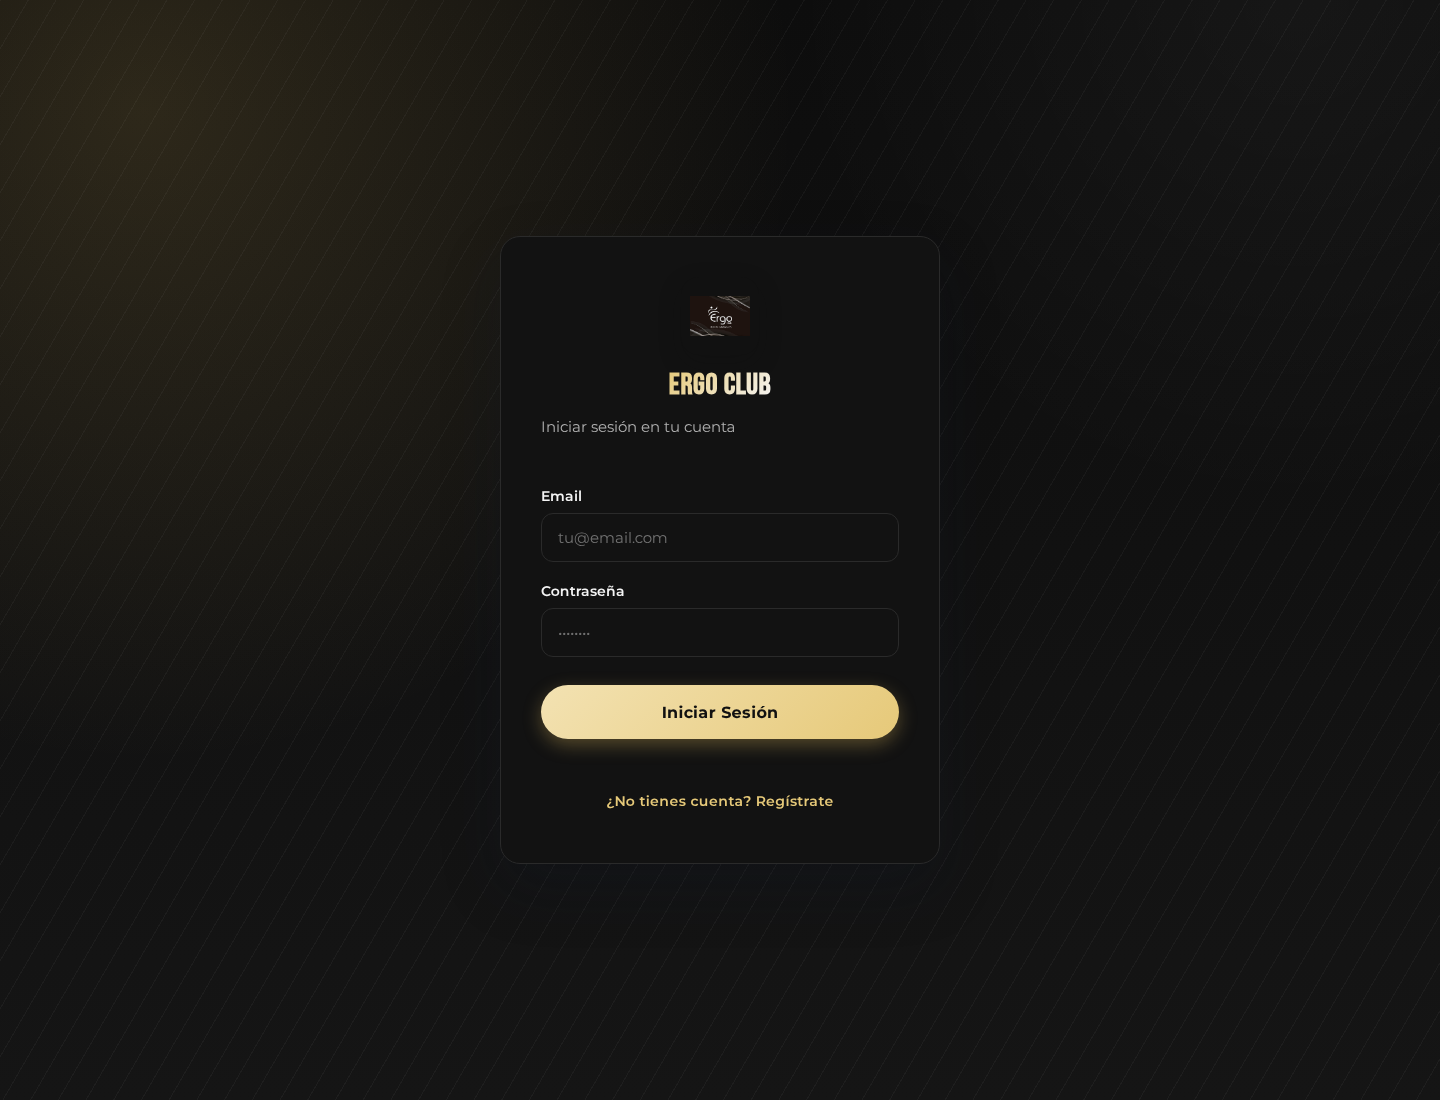
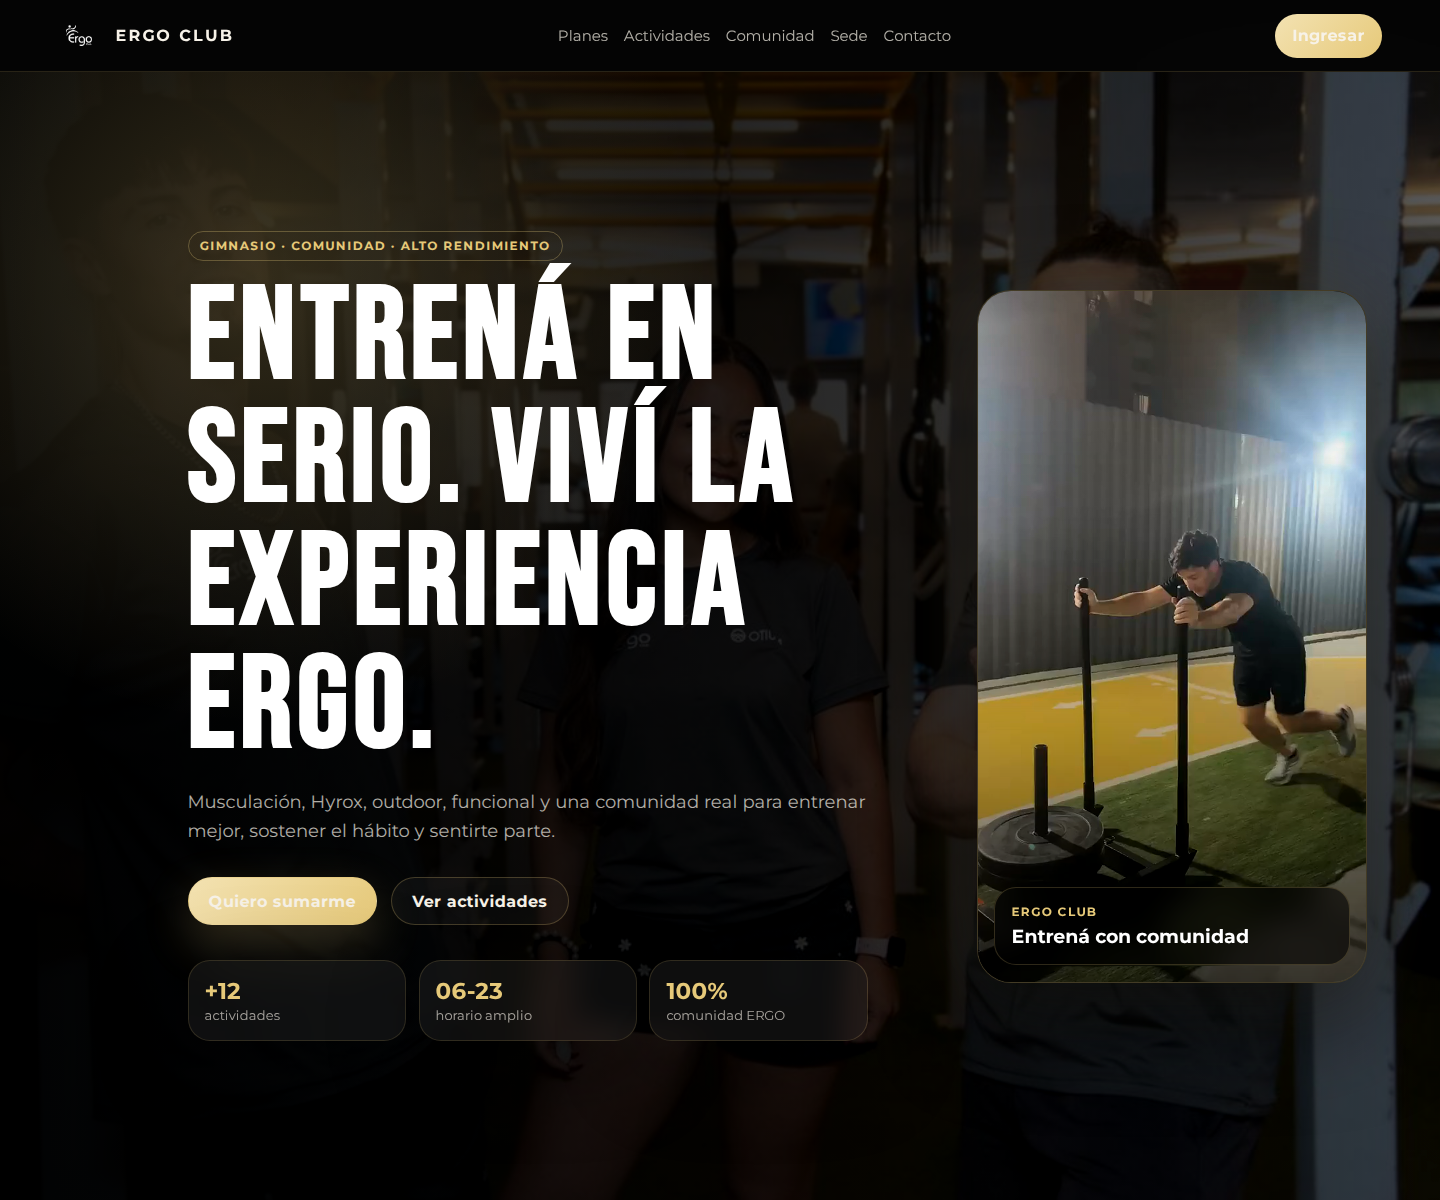
update ERGO CLUB public web preview

diff --git a/projects/ergo-v2.html b/projects/ergo-v2.html
@@ -396,13 +396,13 @@
 
         <div class="actions">
           <a class="btn btn-primary" href="https://ergo-club-web.pages.dev/web" target="_blank" rel="noopener noreferrer">
-            Abrir ERGO CLUB
+            Abrir web pública
           </a>
           <a class="btn btn-secondary" href="https://ergo-club-web.pages.dev/app" target="_blank" rel="noopener noreferrer">
-            Ver app/PWA
+            Abrir app/PWA
           </a>
           <a class="btn btn-secondary" href="https://ergo-club-web.pages.dev/admin" target="_blank" rel="noopener noreferrer">
-            Ver admin
+            Abrir admin
           </a>
         </div>
       </div>

diff --git a/projects/index.html b/projects/index.html
@@ -200,7 +200,7 @@
         font-weight:800;
         background:rgba(15,23,42,.52);
       ">
-        Abrir demo
+        Abrir web pública
       </a>
     </div>
   </div>